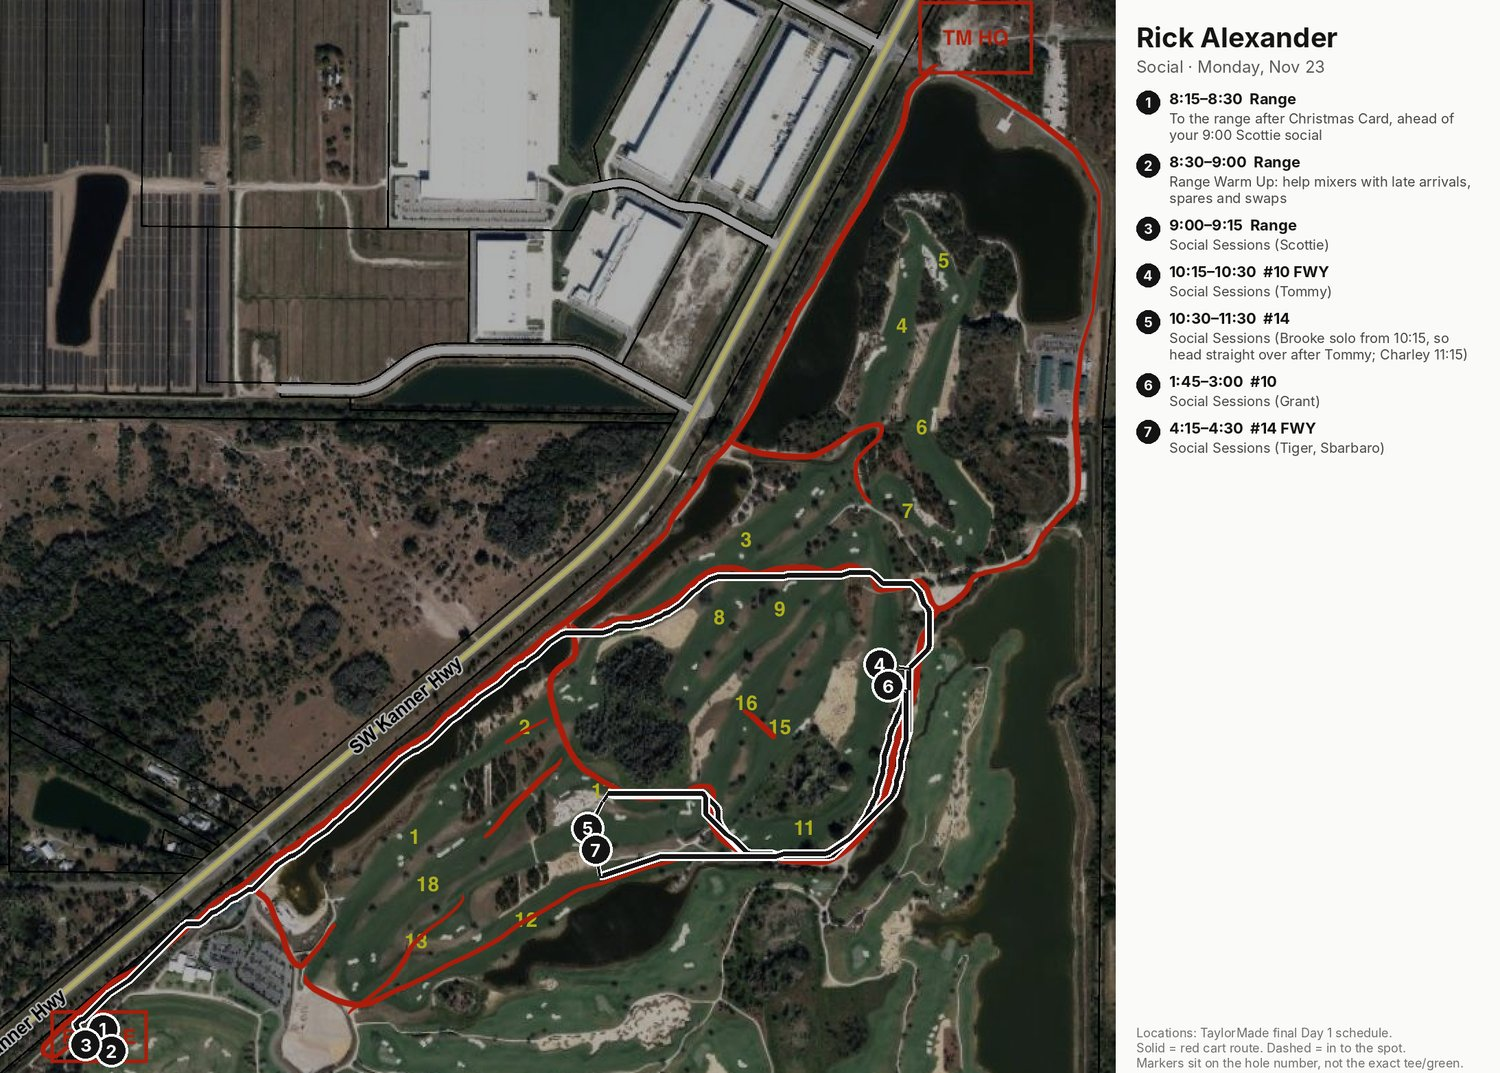
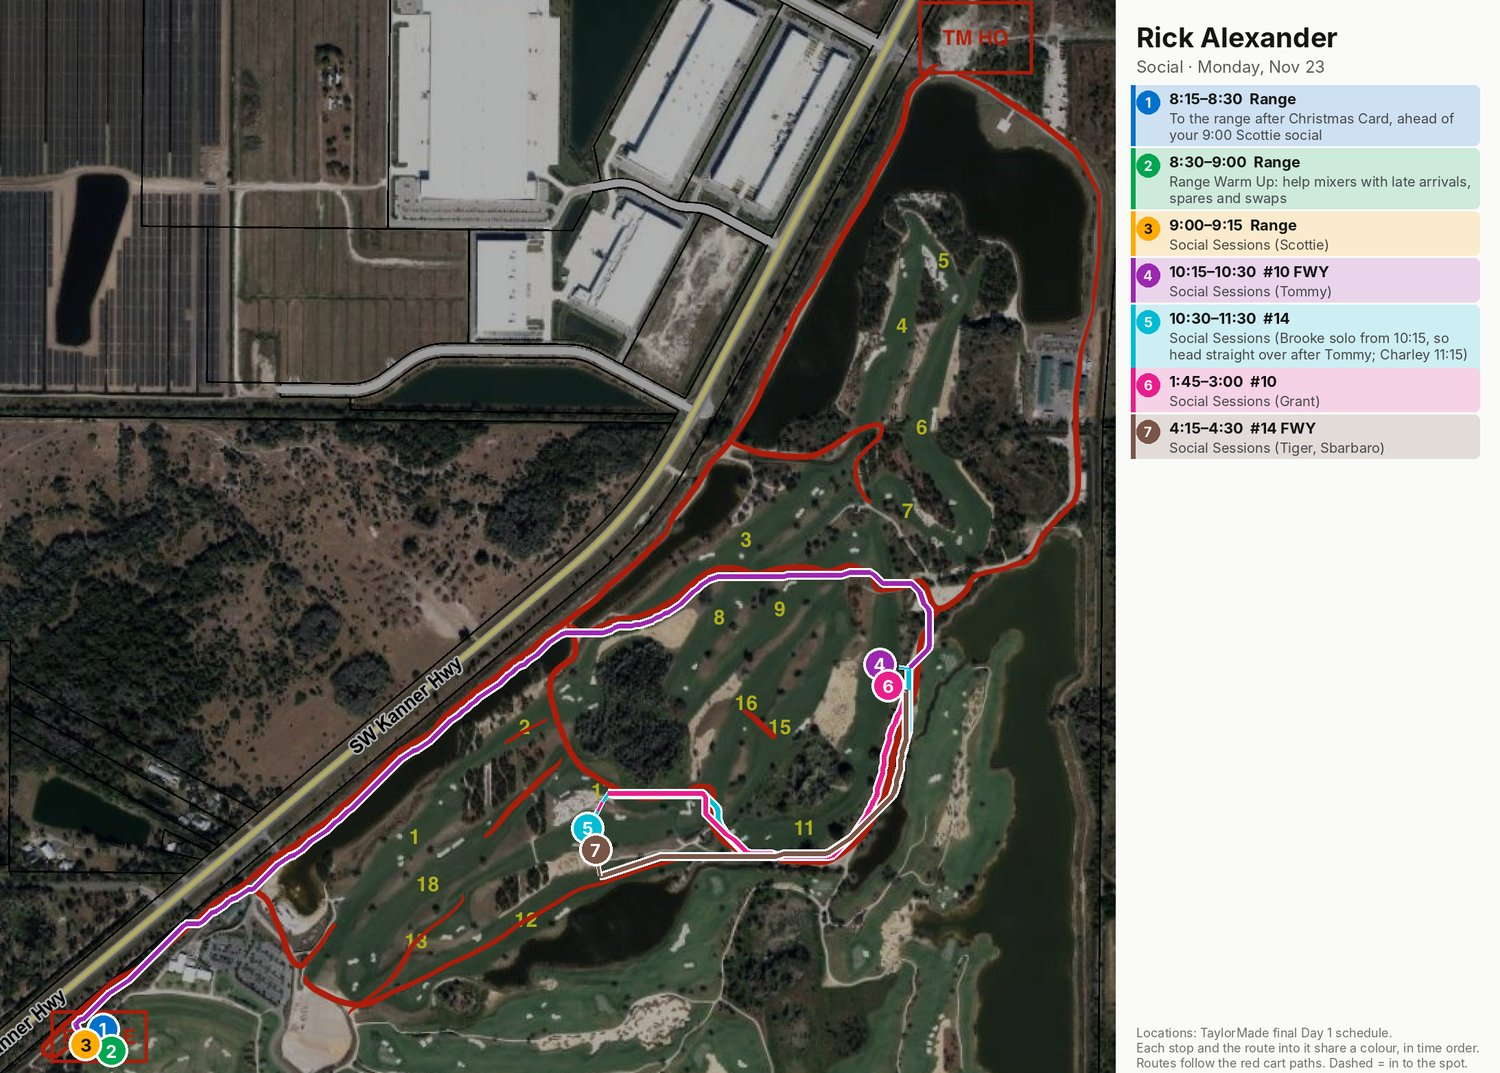
Monday route maps: each stop and its route leg colour-coded in time order
Claude-Session: https://claude.ai/code/session_01Cu9tCEs3nu2uXZXxK9FtRu

diff --git a/index.html b/index.html
@@ -1391,7 +1391,7 @@ function myday(){
   }).join('');
   return '<h2>'+lbl+'</h2>'+(rows?'<table class="md-tb">'+rows+'</table>':'<p class="note">Nothing scheduled.</p>');
  };
- if(MAPS[c.id])h+='<h2>My route <small class="mr-d">Monday</small></h2><img class="md-map" src="maps/'+c.id+'-mon.jpg?v=2" alt="Monday route map for '+esc(c.name)+'"><p class="note">Solid line follows the red cart routes; dashed is the last bit in to the spot. Markers sit on the hole number.</p>';
+ if(MAPS[c.id])h+='<h2>My route <small class="mr-d">Monday</small></h2><img class="md-map" src="maps/'+c.id+'-mon.jpg?v=3" alt="Monday route map for '+esc(c.name)+'"><p class="note">Solid line follows the red cart routes; dashed is the last bit in to the spot. Markers sit on the hole number.</p>';
  if(c.id==='freddie')h+='<h2>Kit tuning: before and after the range break</h2>'+kitTune();
  var U=UNITRF[c.id];if(U)h+='<p class="md-rf">Your field channels ('+U[0]+'): <b class="gc">'+U[1]+'</b> · '+U[2]+' MHz. Talent TX are listed under each set (same both days).</p>';
  h+='<p class="note"><b>'+esc(c.name)+'</b> · '+esc(c.role)+'. Monday call 6:15 AM at the production tent; Tuesday 6:00–6:15 AM. Locations from TaylorMade\u2019s schedule (Monday final; Tuesday from their Day 2 tab). Link straight to this page: <b>schedule.theorysound.com/#me='+c.id+'</b></p>';
